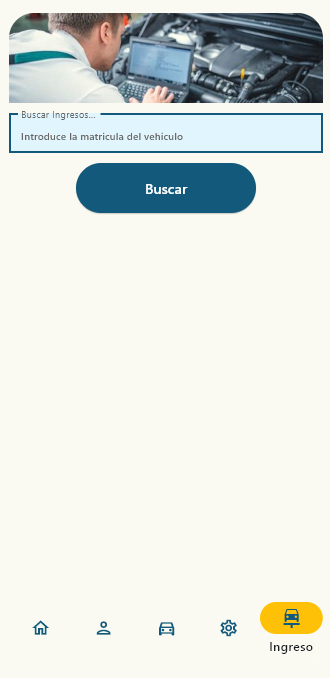
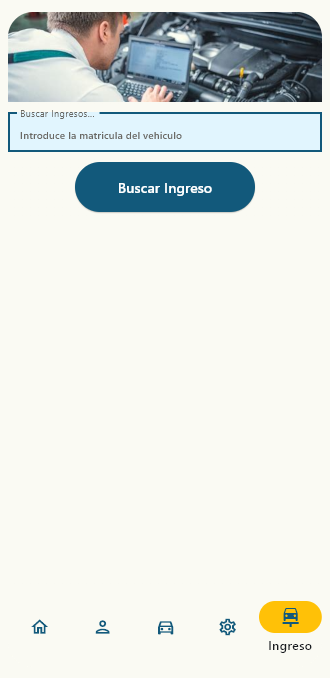
Correction of spelling errors and class description updates / Corrección de errores ortográficos y actualización de la descripción de clases.

diff --git a/app.py b/app.py
@@ -138,6 +138,7 @@ class VentanaInicio(ft.View):
             alignment=ft.alignment.Alignment(x=0, y=0)
         )
 
+        # contenedor vacio para relleno
         self.contenedor_vacio = ft.Container(
             expand= True
         )
@@ -1181,10 +1182,10 @@ class VentanaIngreso(ft.View):
             bgcolor="#E1F5FE"
         )
 
-        # Boton de buscar cliente
+        # Boton de buscar ingreso
         self.BotonBuscarVehiculo = ft.Container(
             ft.ElevatedButton(
-                text="Buscar",
+                text="Buscar Ingreso",
                 color="white",
                 bgcolor="#12597b",
                 # icon=icons.LOGIN,
